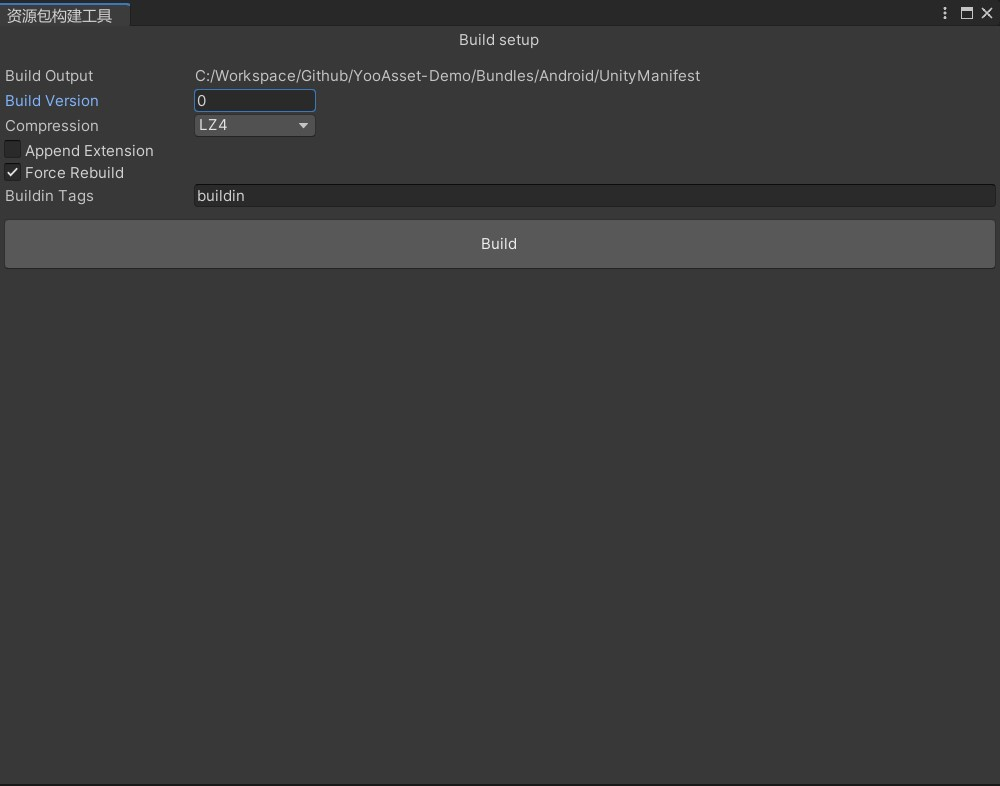
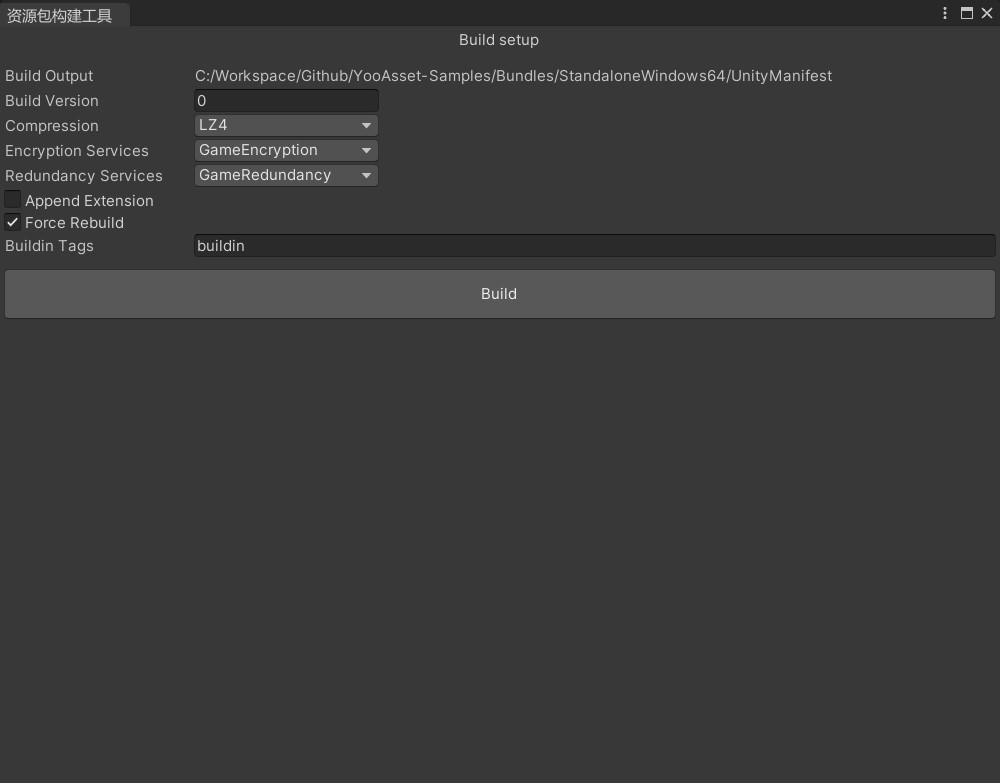
Update document

diff --git a/Docs/AssetBuilder.md b/Docs/AssetBuilder.md
@@ -16,6 +16,14 @@
 
   资源包的压缩方式。
 
+- **Encryption Services**
+
+  加密服务类列表。
+
+- **Redundancy Services**
+
+  冗余服务类列表。
+
 - **Append Extension**
 
   构建的资源包文件名是否包含后缀格式。
@@ -37,14 +45,15 @@
 编写继承IAssetEncrypter接口的加密类。注意：加密类文件需要放置在Editor文件夹里。
 
 ````C#
+using System;
 using YooAsset.Editor;
 
-public class AssetEncrypter : IAssetEncrypter
+public class GameEncryption : IEncryptionServices
 {
     /// <summary>
     /// 检测资源包是否需要加密
     /// </summary>
-    bool IAssetEncrypter.Check(string filePath)
+    bool IEncryptionServices.Check(string filePath)
     {
         // 对配置表相关的资源包进行加密
         return filePath.Contains("Assets/Config/");
@@ -53,7 +62,7 @@ public class AssetEncrypter : IAssetEncrypter
     /// <summary>
     /// 对数据进行加密，并返回加密后的数据
     /// </summary>
-    byte[] IAssetEncrypter.Encrypt(byte[] fileData)
+    byte[] IEncryptionServices.Encrypt(byte[] fileData)
     {
         int offset = 32;
         var temper = new byte[fileData.Length + offset];
@@ -67,7 +76,9 @@ public class AssetEncrypter : IAssetEncrypter
 
 构建成功后会在输出目录下找到补丁包文件夹，该文件夹名称为本次构建时指定的资源版本号。
 
-补丁包文件夹里包含补丁清单和资源包文件以及说明文件，资源包文件都是以文件的哈希值命名。
+补丁包文件夹里包含补丁清单文件，资源包文件，构建报告文件等。
+
+资源包文件都是以文件的哈希值命名。
 
 ![image](https://github.com/tuyoogame/YooAsset/raw/main/Docs/Image/AssetBuilder-img4.jpg)
 
@@ -86,11 +97,8 @@ private static void BuildInternal(BuildTarget buildTarget)
 {
     Debug.Log($"开始构建 : {buildTarget}");
 
-    // 打印命令行参数
+    // 命令行参数
     int buildVersion = GetBuildVersion();
-    bool isForceBuild = IsForceBuild();
-    Debug.Log($"资源版本 : {buildVersion}");
-    Debug.Log($"强制重建 : {isForceBuild}");
 
     // 构建参数
     string defaultOutputRoot = AssetBundleBuilderHelper.GetDefaultOutputRoot();
@@ -101,7 +109,9 @@ private static void BuildInternal(BuildTarget buildTarget)
     buildParameters.BuildVersion = buildVersion;
     buildParameters.CompressOption = ECompressOption.LZ4;
     buildParameters.AppendFileExtension = false;
-    buildParameters.IsForceRebuild = isForceBuild;
+    buildParameters.EncryptionServices = new GameEncryption();
+    buildParameters.RedundancyServices = null;
+    buildParameters.IsForceRebuild = true;
     buildParameters.BuildinTags = "buildin";
 
     // 执行构建
@@ -121,15 +131,6 @@ private static int GetBuildVersion()
             return int.Parse(arg.Split("="[0])[1]);
     }
     return -1;
-}
-private static bool IsForceBuild()
-{
-    foreach (string arg in System.Environment.GetCommandLineArgs())
-    {
-        if (arg.StartsWith("forceBuild"))
-            return arg.Split("="[0])[1] == "true" ? true : false;
-    }
-    return false;
 }
 ````
 

diff --git a/Docs/CodeTutorial3.md b/Docs/CodeTutorial3.md
@@ -121,9 +121,9 @@ IEnumerator Start()
 IEnumerator Start()
 {
     string location = "wwise/init.bnk";
-    string savePath = $"{Application.persistentDataPath}/Audio/init.bnk"
+    string savePath = $"{Application.persistentDataPath}/Audio/init.bnk";
     RawFileOperation operation = YooAssets.LoadRawFileAsync(location, savePath);
-    yield return operation;    
+    yield return operation;
     byte[] fileData = operation.GetFileData();
     string fileText = operation.GetFileText();
 }

diff --git a/Docs/Settings.md b/Docs/Settings.md
@@ -10,11 +10,7 @@
 
 - **Asset Bundle File Variant** : AssetBundle资源包后缀名
 - **Raw File Variant** : 原生资源包后缀名
-
 - **Patch Manifest File Name** : 补丁清单文件名
-
 - **Patch Manifest Hash File Name** : 补丁清单哈希文件名
-
 - **Unity Manifest File Name** : Unity构建的清单名称
-- **Readme File Name** : 说明文件名称
 
